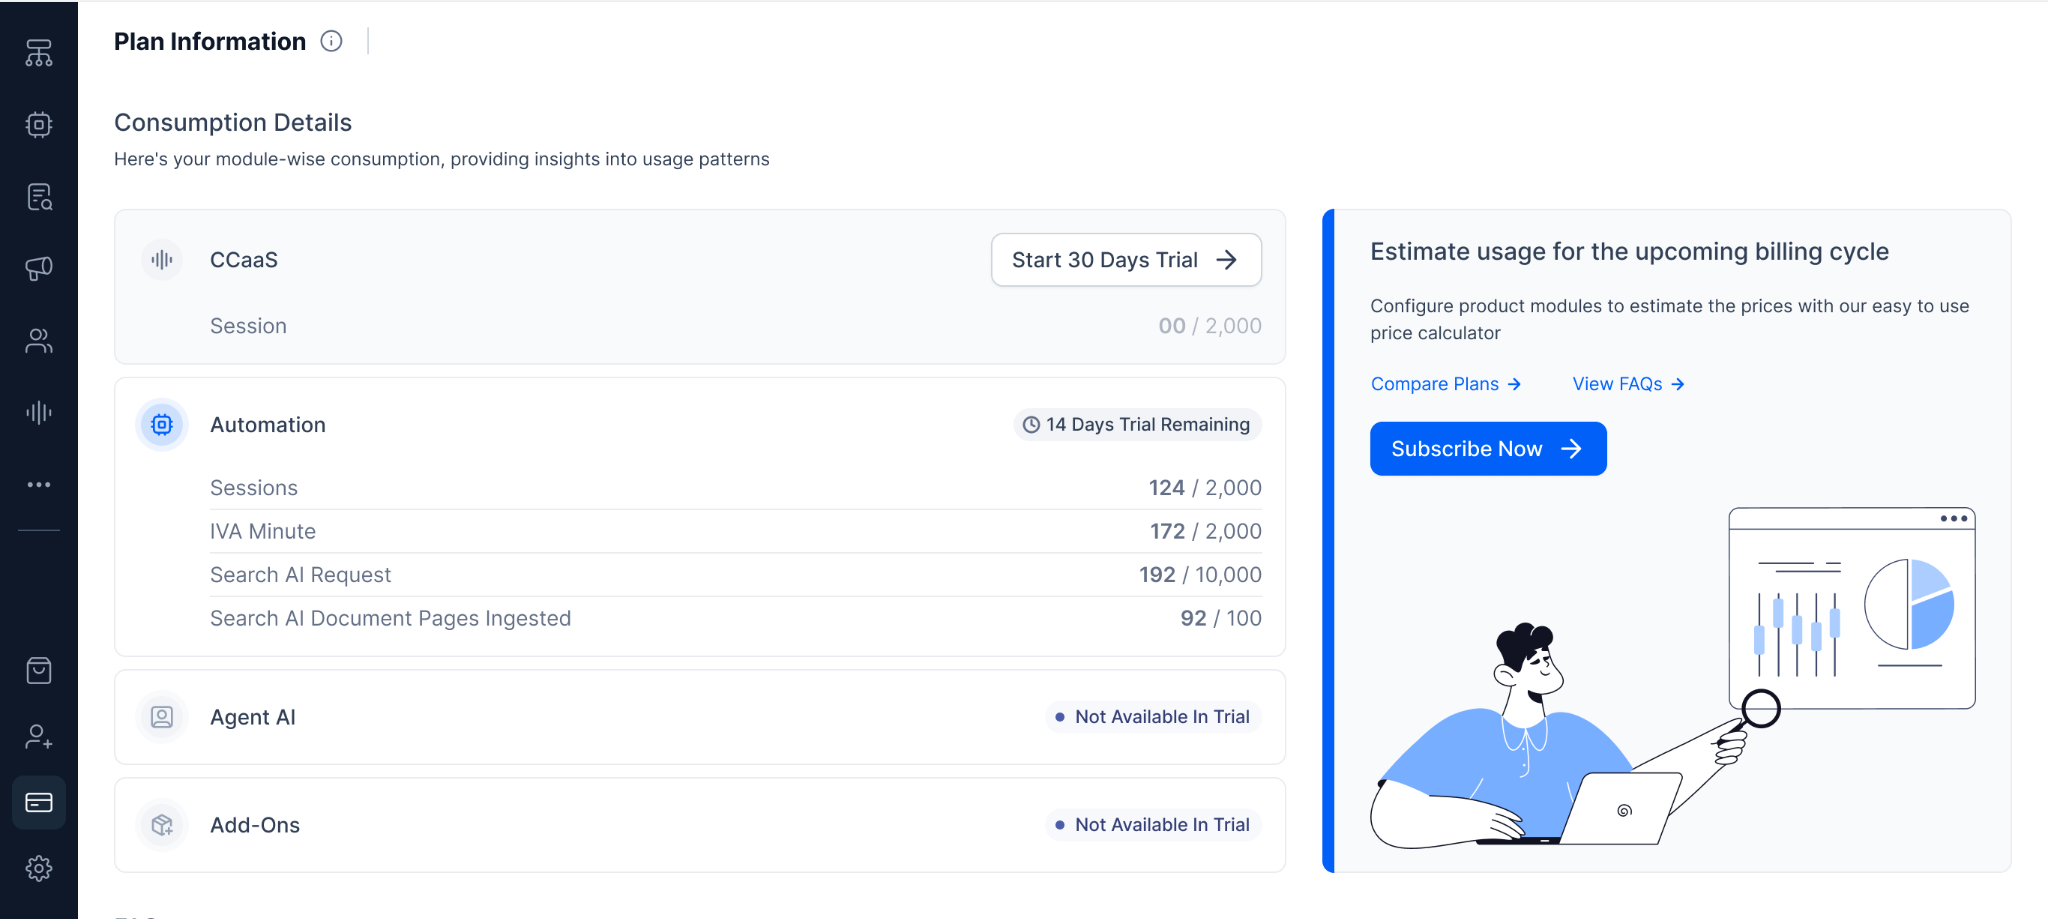
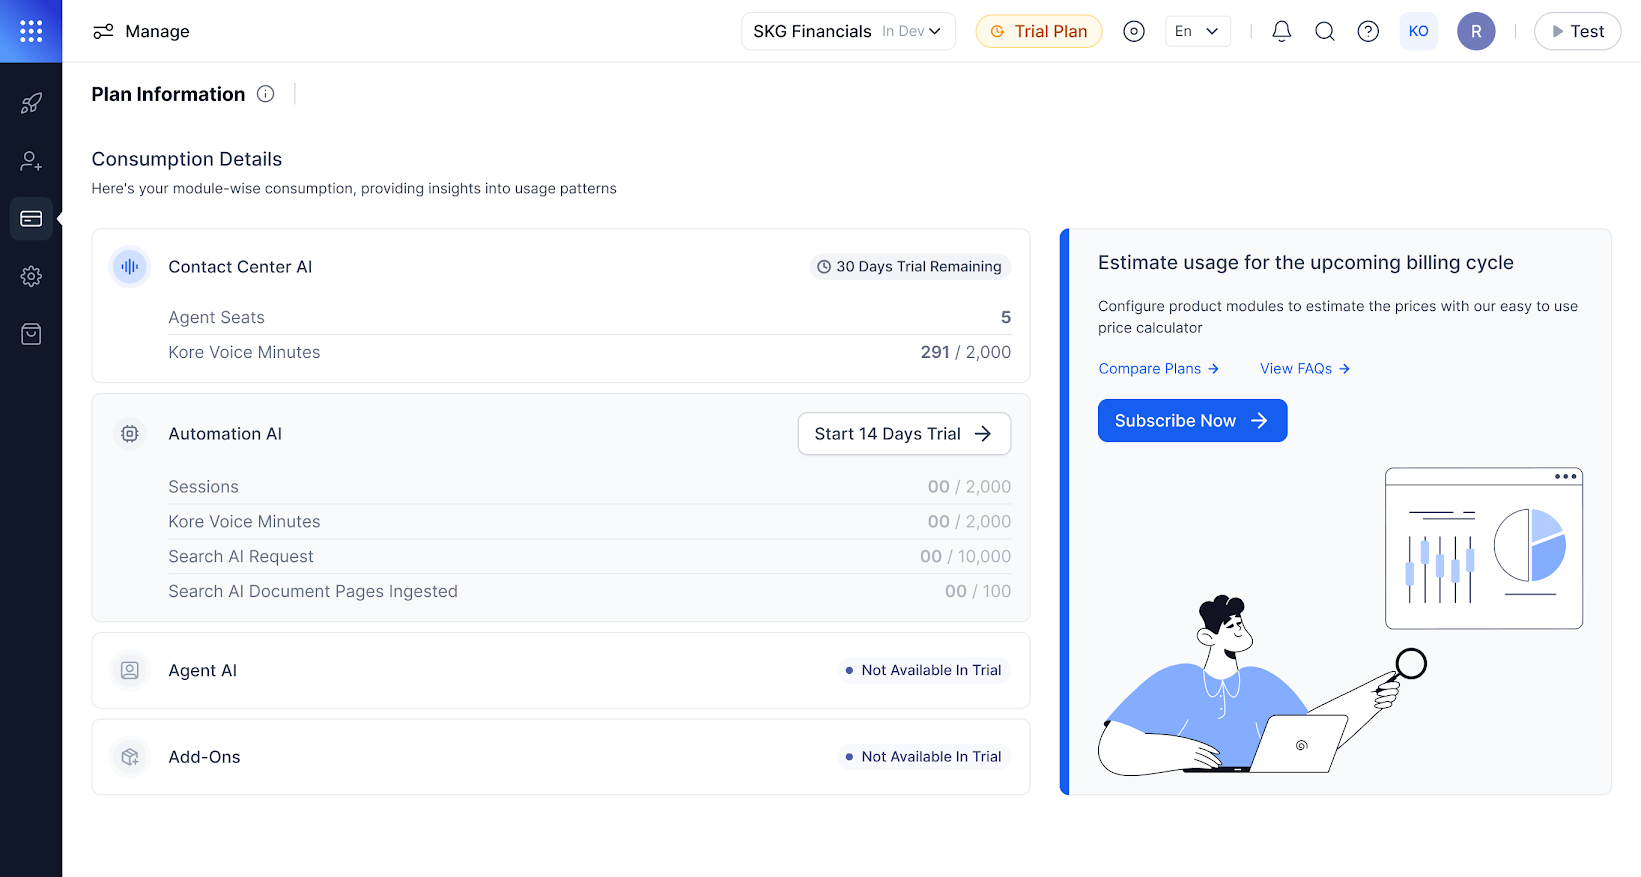
Updated the section "New Billing Page"

diff --git a/docs/xo/getting-started/key-differences-between-xo11-and-xo10.md b/docs/xo/getting-started/key-differences-between-xo11-and-xo10.md
@@ -80,7 +80,8 @@ Also, the Marketplace offers pre-built dialogue templates for each integration. 
 
 ## New Billing Page
 
-The billing definition has been changed to accommodate the various price offerings we are providing in XO11. The Billing Session definition for Automation is 15 minutes of Interaction, and for Contact Center, it's 15 minutes of ideal time. The Platform offers various plans, and users can choose the plan for each product individually. Note that if users want to be Enterprise customers, then they have to choose enterprise plans for all the products.  
+Billing has been updated in XO11 to accommodate various price offerings. For Automation AI, the billing session is defined as 15 minutes of interaction. For Contact Center AI, billing is based on the number of agent seats. You can start with a trial plan for either Automation AI or Contact Center AI, then subscribe to additional products as needed.
+The platform offers different plans, and you can choose the plan for each product individually. However, if you want Enterprise offerings, you must choose enterprise plans for all the products.  
 <img src="../images/xo-platform-billingpage.png" alt="Billing Page" title="Billing Page" style="border: 1px solid gray; zoom:70%;">
 
 ## Other Changes
